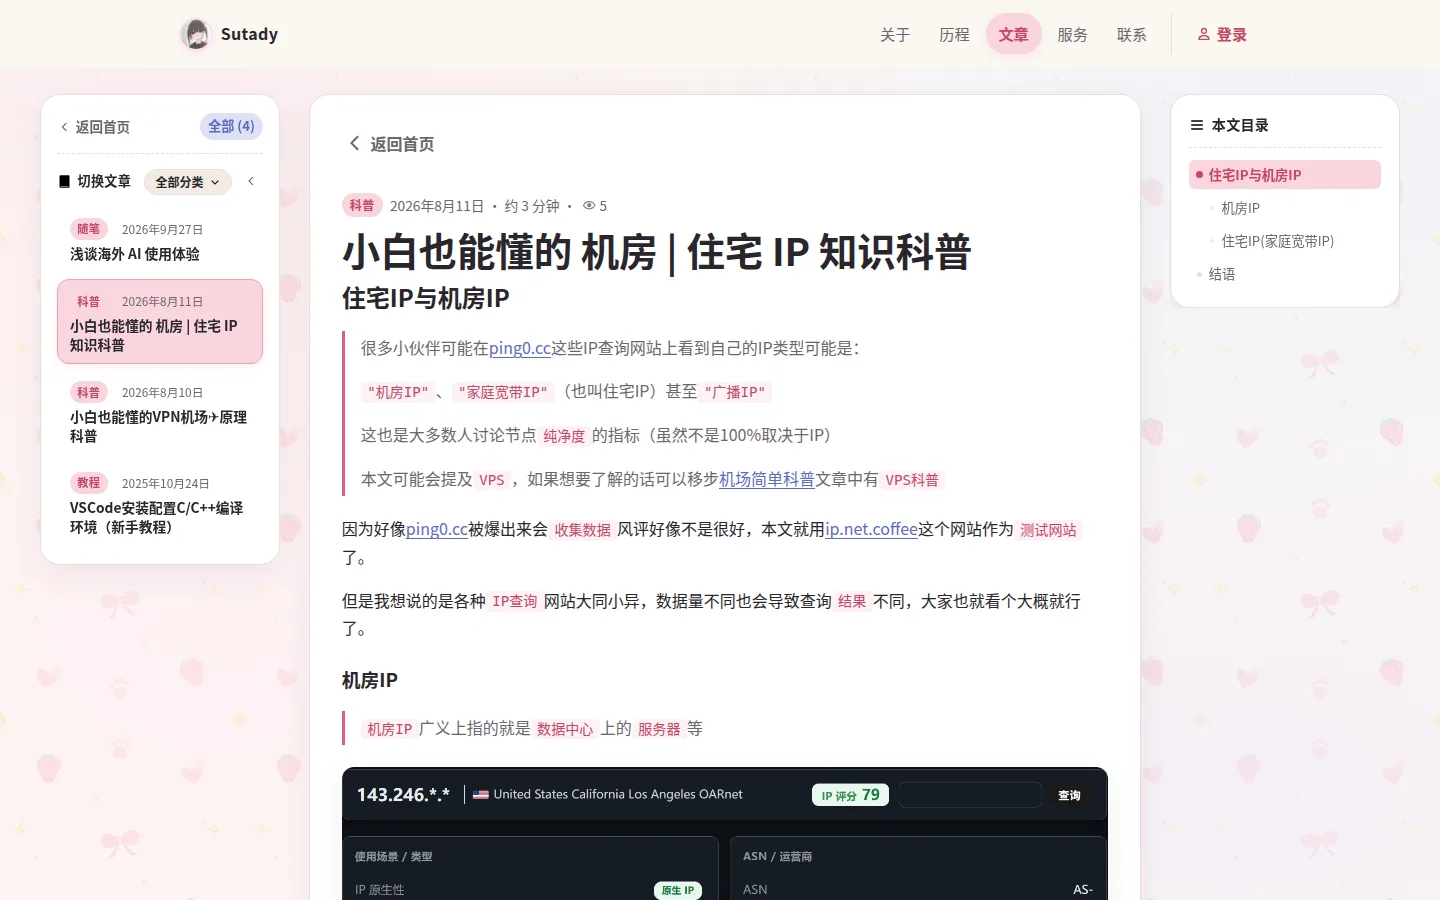
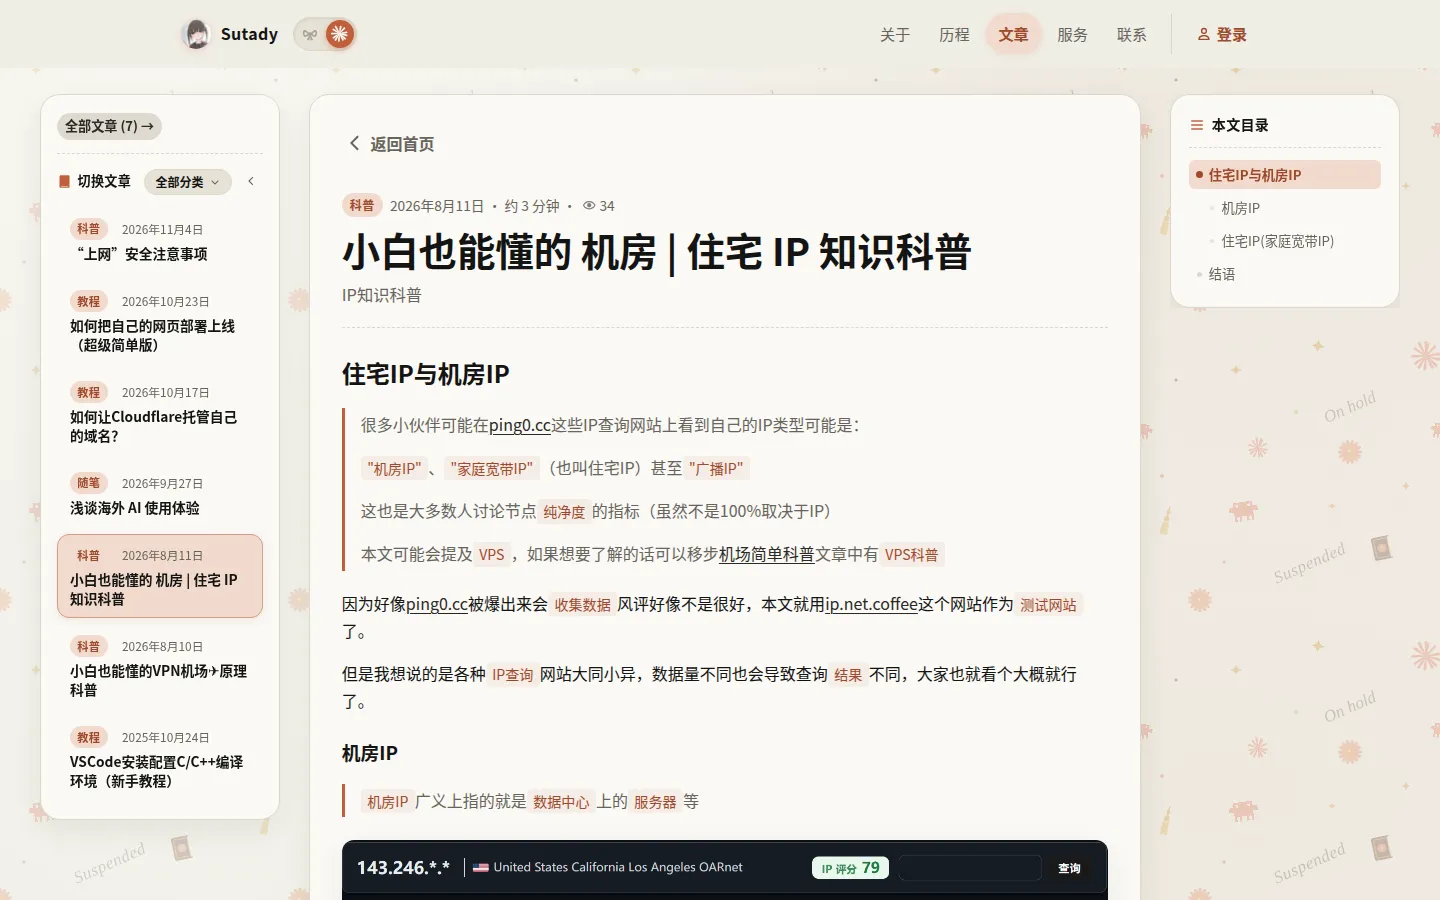
docs(readme): 截图换成 Claude 主题，新增两套主题对比图，同步过时的说明
- README：四张截图改为 Claude 主题，新增两套主题并排对比图；特色、项目结构、更新内容表格补上主题相关说明；徽章改为 Claude 橙
- AGENTS.md、CLAUDE.md：首屏插画加载方式、预加载范围、主题键名来源
- MAINTENANCE.md：“粉灰色引言卡片”“粉色药丸标签”“强调粉”改为跟随主题的说法

diff --git a/README.md b/README.md
@@ -8,8 +8,8 @@
 
 个人网站与技术博客
 
-[![网站](https://img.shields.io/badge/在线访问-sutady.top-e25c7a?style=flat-square)](https://sutady.top)
-[![版本](https://img.shields.io/github/v/release/TianlinglingOvO/PersonalWeb?style=flat-square&color=f0a5b5&label=版本)](./CHANGELOG.md)
+[![网站](https://img.shields.io/badge/在线访问-sutady.top-c15f3c?style=flat-square)](https://sutady.top)
+[![版本](https://img.shields.io/github/v/release/TianlinglingOvO/PersonalWeb?style=flat-square&color=d97757&label=版本)](./CHANGELOG.md)
 [![代码协议](https://img.shields.io/badge/代码-MIT-8bc4a8?style=flat-square)](./LICENSE)
 [![Astro](https://img.shields.io/badge/Astro-7-ff5d01?style=flat-square&logo=astro&logoColor=white)](https://astro.build)
 [![Cloudflare Pages](https://img.shields.io/badge/Cloudflare-Pages%20%2B%20D1-f38020?style=flat-square&logo=cloudflare&logoColor=white)](https://pages.cloudflare.com)
@@ -28,6 +28,11 @@
     <td width="50%" align="center"><img src="docs/screenshots/article.webp" alt="文章页" /><br /><sub>文章页：切换侧栏、目录、浏览量</sub></td>
   </tr>
 </table>
+<table>
+  <tr>
+    <td align="center"><img src="docs/screenshots/themes.webp" alt="两套主题：Claude 与粉色马卡龙" /><br /><sub>两套主题：Claude（默认，左）和粉色马卡龙（右），顶栏开关一键切换</sub></td>
+  </tr>
+</table>
 
 ---
 
@@ -35,7 +40,7 @@
 
 | 功能 | 说明 |
 | :--- | :--- |
-| 🎨 **可切换的主题** | Claude 橙（默认，Claude 娘同人致敬）和粉白马卡龙两套外观，顶栏一键切换，新主题从左上角“侵蚀”到右下角；每套主题有自己的配色、插画和背景小图案，排版共用，所有颜色都来自统一的设计变量 |
+| 🎨 **可切换的主题** | Claude（默认，Claude 娘同人致敬：陶土橙 + 墨黑 + 纸张底色）和粉色马卡龙两套外观，顶栏开关一键切换，新主题像斜向幕布一样推过去，方向跟着开关滑块走，中途再点会原路退回；每套主题有自己的配色、插画和背景小图案，排版共用；只下载当前主题的插画 |
 | ⏳ **年历式时间线** | 电脑端按年份翻页，每年一张 12 个月的格子，点月份看当月经历（经历多的月份折叠成一行行标题，点开看详情）；手机端按年份折叠，只显示最近几条；节点可以关联文章，两边互相跳转 |
 | 📖 **舒服的阅读体验** | 导语、阅读时长、阅读进度条、目录跟随、文章切换侧栏、图片点击放大、上一篇 / 下一篇 |
 | 🎬 **细腻的动效** | 首屏依次浮现、卡片错落出场、换页翻书、从卡片展开成文章；所有展开 / 收起都有过渡；尊重系统的“减少动态效果”设置 |
@@ -60,19 +65,19 @@
 ```text
 PersonalWeb/
 ├── content/              # ✏ 网站内容：改这里就能更新网站
-│   ├── site.json         #    昵称、标语、插画等全局信息
+│   ├── site.json         #    昵称、标语、默认主题等全局信息
 │   ├── social.json       #    联系方式
 │   ├── about.md          #    关于我
 │   ├── articles/         #    文章
 │   ├── timeline/         #    时间线经历
 │   └── services/         #    服务卡片
-├── public/images/        # 🖼 图片素材
+├── public/images/        # 🖼 图片素材（themes/<主题名>/ 是各主题的插画和底纹）
 ├── src/
 │   ├── components/       #    页面各区块（Hero、Timeline、Comments…）
 │   ├── pages/            #    首页、文章页、登录页、账号页、404、RSS、sitemap
 │   ├── scripts/          #    前端交互：ui.ts 是入口，core/ 是通用工具，features/ 每个文件一块功能
-│   ├── styles/           #    样式：global.css 按顺序导入 base/、components/、sections/、pages/
-│   └── lib/              #    站点信息、文章列表，以及构建时的图片检查与图片属性插件
+│   ├── styles/           #    样式：global.css 按顺序导入 base/、themes/（每套主题的配色）、components/、sections/、pages/
+│   └── lib/              #    站点信息、主题清单（themes.ts）、文章列表，以及构建时的图片检查与图片属性插件
 ├── functions/            # ⚙ 后端接口（浏览量、账号、评论、回复提醒）
 ├── migrations/           # 🗄 数据库表结构
 └── scripts/              # 👑 admin.mjs 站长管理命令、smoke.mjs 接口冒烟测试
@@ -88,6 +93,8 @@ PersonalWeb/
 | 想改什么 | 改哪个文件 |
 | :--- | :--- |
 | 昵称、标语、简介 | `content/site.json` |
+| 默认主题 | `content/site.json` 的 `defaultTheme`（`claude` 或 `macaron`） |
+| 主题插画、配色 | 插画在 `public/images/themes/<主题名>/`（登记在 `src/lib/themes.ts`），配色在 `src/styles/themes/<主题名>.css`，详见 MAINTENANCE.md 1.6、1.7 |
 | 关于我 | `content/about.md` |
 | 发新文章 | 在 `content/articles/` 新建 `.md`，必填 `title`、`date`、`description`、`category` |
 | 时间线经历 | `content/timeline/*.md`，日期写成 `"年.月.日"`（记不清哪天就写 `"年.月"`），年月决定它落在年历的哪个月；写 `article: 文章文件名` 可以关联文章 |

diff --git a/AGENTS.md b/AGENTS.md
@@ -164,8 +164,8 @@ npm run smoke   # 改了 functions/、migrations/ 或账号、评论相关前端
 * **清单**：`src/lib/themes.ts` 登记每套主题的名字、开关图标（`Icon.astro` 里的名字）、只在该主题下显示的页脚说明（`credit`）和各位置插画（首页三处 + 404 图片池，404 有多张时每次随机显示一张）。
 * **默认主题**：`content/site.json` 的 `defaultTheme`；写了清单里没有的名字，构建直接失败。
 * **新增主题**：清单里加一项 → 复制一份 `src/styles/themes/*.css` 改名并改颜色 → 在 `global.css` 里导入 → 插画放进 `public/images/themes/<主题名>/`。“只显示当前主题的插画”和开关滑块位置的样式由 `themes.ts` 的 `themeCss` 按清单生成，不用手写。超过两套时开关会自动变长，但最好改成三段式或下拉菜单。
-* **主题标记**：`<html data-theme>`。BaseLayout 先按默认主题输出，`<head>` 里的内联脚本在绘制前换成访客上次选的（localStorage 的 `sutady:theme`，和 `scripts/core/theme.ts` 共用键名）；换页时 `features/theme-switch.ts` 在 `astro:before-swap` 里把当前主题写到新文档上，否则会闪回默认主题。
-* **插画只下载当前主题的**：插画全部 `loading="lazy"`，不是当前主题的那张被 `display: none` 隐藏，浏览器不会下载。所以首屏插画也是懒加载，不要改回 `eager`，否则每套主题的首屏图都会被下载。404 页的随机选图写在页面里的内联脚本中，在绘制前选好，也是这个原因。
+* **主题标记**：`<html data-theme>`。BaseLayout 先按默认主题输出，`<head>` 里的内联脚本在绘制前换成访客上次选的（localStorage 的 `sutady:theme`，键名是 `scripts/core/theme.ts` 的 `THEME_KEY`，构建时通过 `define:vars` 传给内联脚本）；换页时 `features/theme-switch.ts` 在 `astro:before-swap` 里把当前主题写到新文档上，否则会闪回默认主题。
+* **插画只下载当前主题的**：插画全部 `loading="lazy"`，不是当前主题的那张被 `display: none` 隐藏，浏览器不会下载。模板里不要把插画改成 `eager`，否则每套主题的图都会被下载。首屏插画想早点加载，是靠 `Hero.astro` 里紧跟插画的内联脚本：绘制前只把当前主题那张改成 `eager`。404 页的随机选图也写在页面里的内联脚本中、在绘制前选好，是同样的道理。
 * **换色动画**：`features/theme-switch.ts` 用 `document.startViewTransition()`，切换期间 `<html>` 带 `theme-switching` 类和 `data-theme-sweep`（`forward` / `back`）。站长要求：
   * **方向跟滑块一致**：换到清单里靠后的主题（滑块往右，如马卡龙 → Claude）时新主题从左上角推到右下角，往回换时从右下角推回左上角。
   * **用斜向推进，不用像素侵蚀**：试过用 CSS Paint API 做“像素崩坏侵蚀”，站长觉得拖沓、和网站风格不贴，已停用；代码存档在 `update_plan/Themes-Plans/像素侵蚀备份/`（本地，不进仓库），不要再主动提。
@@ -173,7 +173,7 @@ npm run smoke   # 改了 functions/、migrations/ 或账号、评论相关前端
   * **滑块要滑过去**：滑块单独有 `view-transition-name: theme-knob`，从旧位置滑到新位置、图标淡入淡出，不等幕布推到。滑块本身的 CSS 过渡只在不支持该 API 时用。
   * **动画中途可以再点**：再点一下开关，所有过场动画原路倒放，倒放到头再把主题改回去。动画期间浏览器把点击都算在 `<html>` 上（`::view-transition` 设 `pointer-events: none` 也没用），所以脚本按坐标判断是否点在开关上。
   * 顶栏、回到顶部按钮的固定 `view-transition-name` 临时去掉（否则它们会单独淡入淡出）；全站 CSS 过渡临时关闭（否则按钮会在新画面里再慢慢变一次色）。
-  * 鼠标移到开关上就预加载另一套主题的插画；点下去之后最多等 300ms，让屏幕内的插画加载出来再开始（准备期间浏览器暂停绘制，懒加载图片不会自己开始加载，所以脚本把屏幕内那几张改成立即加载）。
+  * 鼠标移到开关上就预加载另一套主题里屏幕附近（上下半屏以内）的插画，远处的不提前下载；点下去之后最多等 300ms，让屏幕内的插画加载出来再开始（准备期间浏览器暂停绘制，懒加载图片不会自己开始加载，所以脚本把屏幕内那几张改成立即加载）。
   * 不支持该 API 或开启“减少动态效果”时直接切换。
 
 ### 锚点与滚动偏移

diff --git a/MAINTENANCE.md b/MAINTENANCE.md
@@ -60,7 +60,7 @@ category: 教程
 
 * **排版进阶建议**：
   * **标题层级**：正文从 `## 二级标题` 开始写（一级标题 `#` 会由系统模板自动渲染为页面大标题）；
-  * **引言与引用**：使用 `> 引用文本` 渲染优雅的粉灰色引言卡片；
+  * **引言与引用**：使用 `> 引用文本` 渲染带主题色竖线的引言卡片；
   * **代码高亮**：使用三反引号并标注语言，如 ```` ```python ````、```` ```bash ````、```` ```cpp ````，系统已集成 Shiki 语法高亮。
 
 ---
@@ -133,8 +133,8 @@ order: 1
 date: "2026.09.18"            # 年.月.日（年月决定放进年历的哪一格，卡片上显示“9月18日”）；记不清哪天就只写 "2026.09"（显示“9月”）；
                               #   一定要加英文引号，月和日都写两位；未来节点写 "Future"，只写年份会归入“全年”
 title: 里程碑标题               # 卡片主标题
-tag: 独立开发                  # 右上角粉色药丸标签（如：独立开发 / 科普分享 / 新手起步 / 持续进阶）
-isHighlight: true             # 是否为重要里程碑高亮（为 true 时卡片启用专属强调粉微渐变、鲜亮渐变日期标与发光阴影）
+tag: 独立开发                  # 右上角主题色药丸标签（如：独立开发 / 科普分享 / 新手起步 / 持续进阶）
+isHighlight: true             # 是否为重要里程碑高亮（为 true 时卡片启用专属主色微渐变、鲜亮渐变日期标与发光阴影）
 isFuture: false               # 是否为未来展望节点（为 true 时节点呈慢速旋转蓝色小星星 ★）
 order: 50                     # 排序序号：按时间正序，order 越小越早（出生），越大越新
 article: vscode_for_c         # （可选）关联一篇文章：写文章的文件名（不带 .md），卡片上会自动出现“阅读文章 / 阅读教程”按钮，
